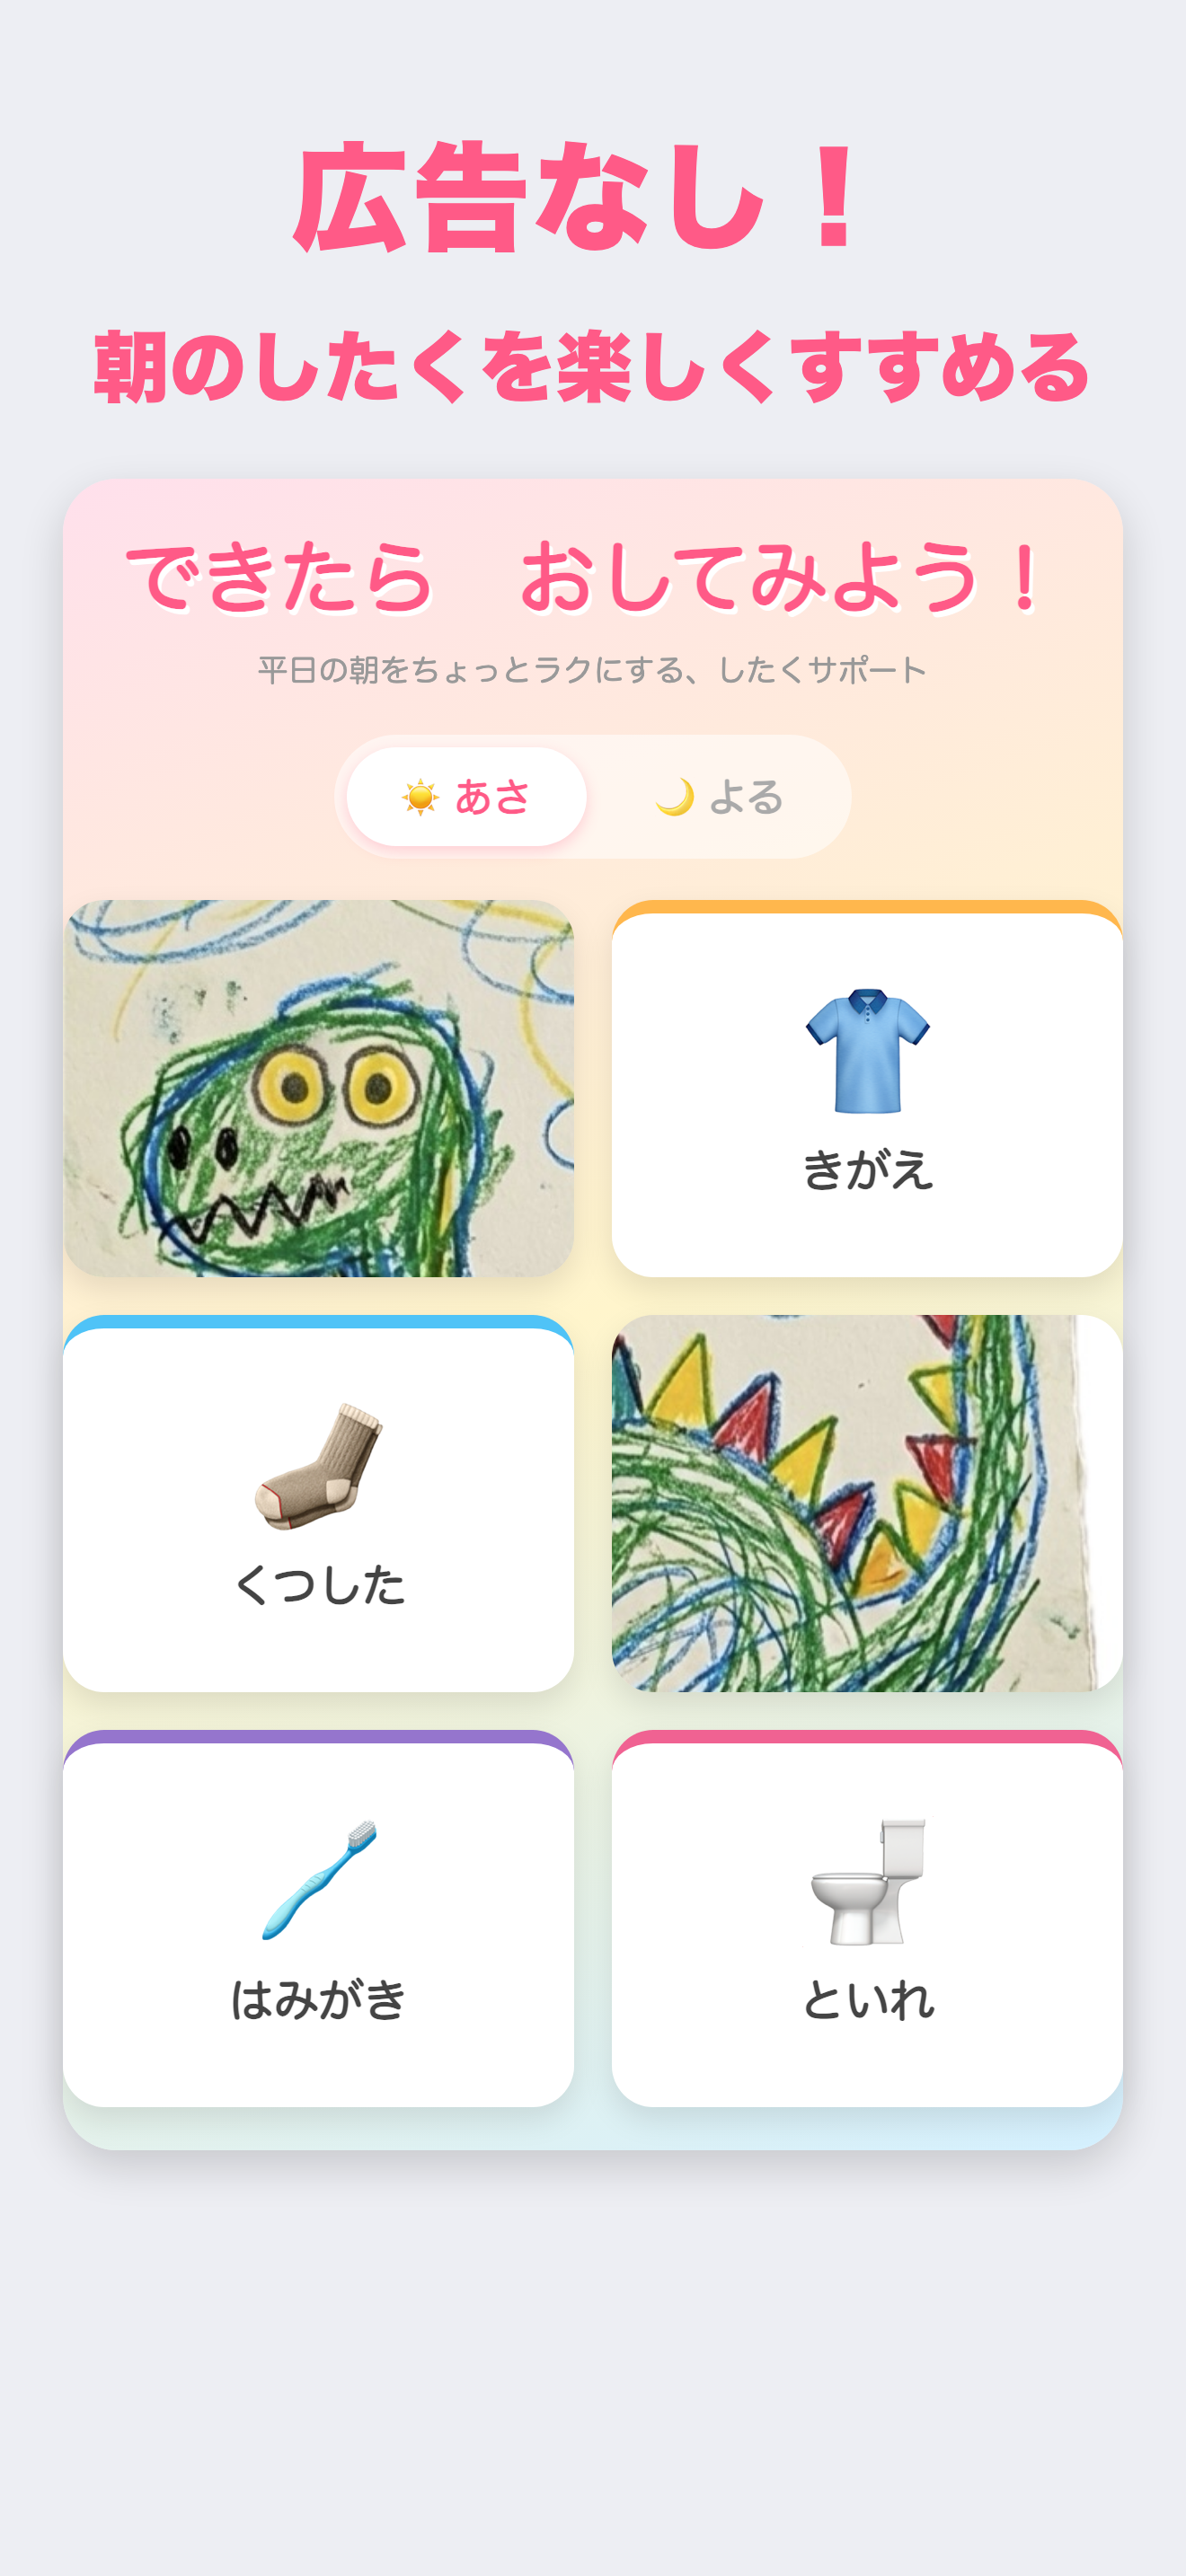
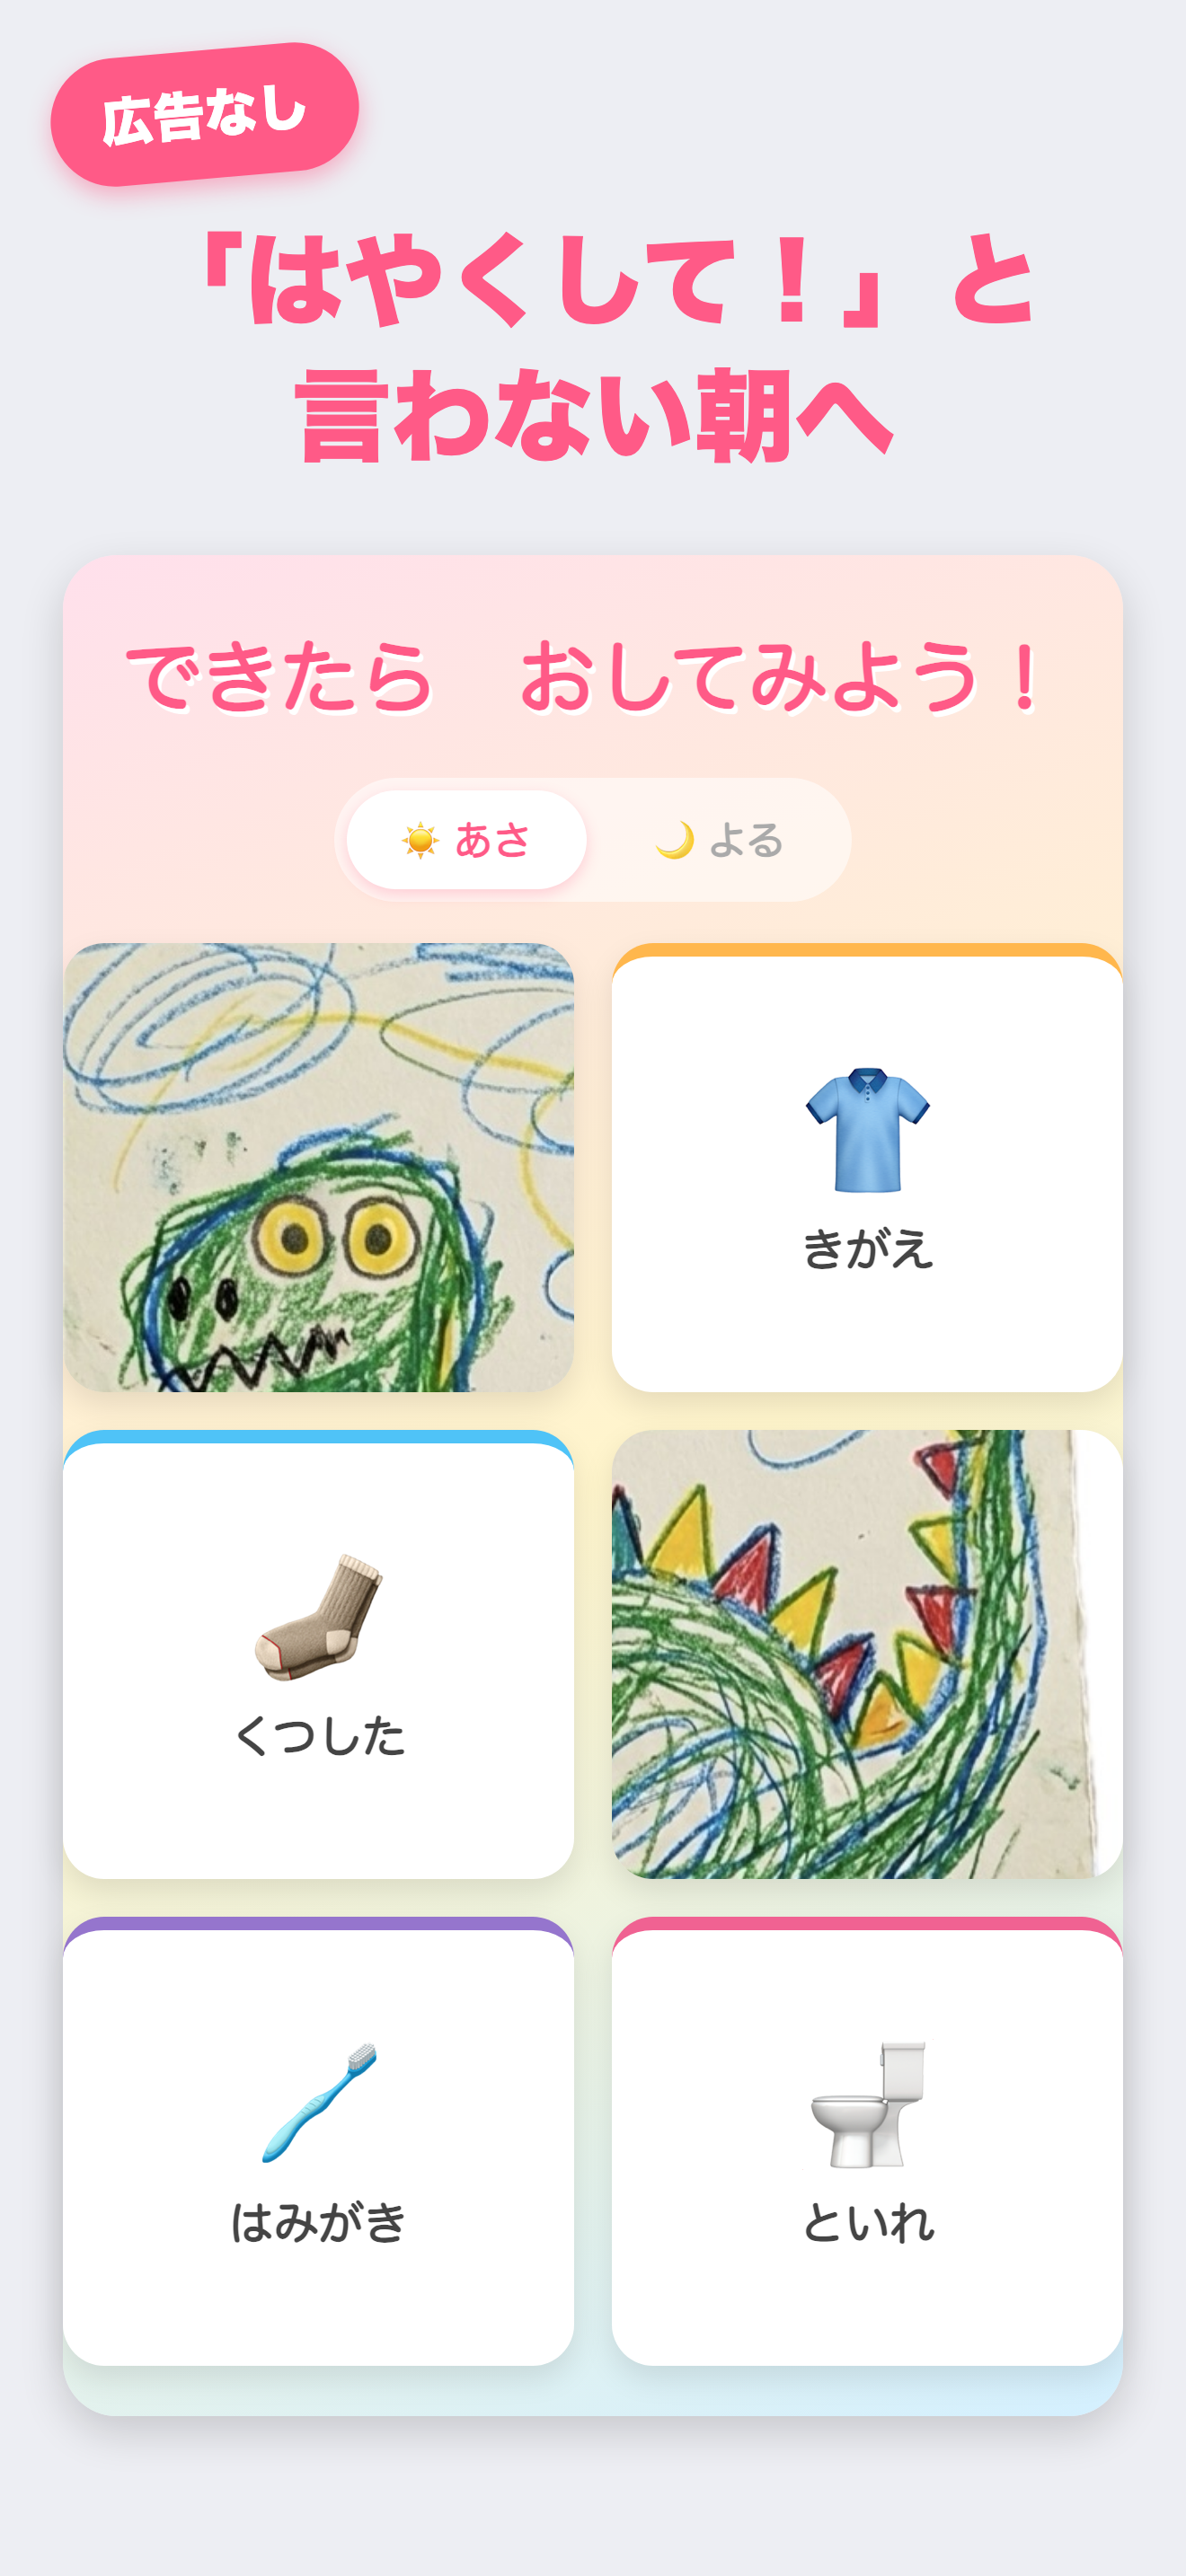
v1.2.1: アプリ名を「できタップ」に変更（本体・公開ページ・スクショ・掲載情報）
- webapp: <title>変更、hero-sub（平日の朝を〜）削除、設定フッターに
  「できタップ」表示（Yusei Magicサブセット約2KBをbase64埋め込み）
- iOS: MARKETING_VERSION 1.2.1 / build 6 / CFBundleDisplayName できタップ
- 公開ページ（landing/privacy/terms/support）: 名称をできタップ／DekiTapに
  統一、法務2ページは最終更新日を2026-07-04に更新
- スクショ1枚目: 「はやくして！」と言わない朝へ＋「広告なし」左上バッジ
- 掲載情報: App名「イヤイヤ期の朝したくが進む できタップ」、サブタイトル
  「朝の身支度が習慣に」、キーワード96字案（保育園・幼稚園を追加）

diff --git a/webapp/index.html b/webapp/index.html
@@ -3,7 +3,7 @@
 <head>
   <meta charset="UTF-8">
   <meta name="viewport" content="width=device-width, initial-scale=1.0, viewport-fit=cover">
-  <title>できた！</title>
+  <title>できタップ</title>
   <link rel="icon" type="image/svg+xml" href="icon.svg">
   <link rel="apple-touch-icon" href="icon.svg">
   <style>
@@ -175,15 +175,6 @@
       color: #c7a8ff;
       text-shadow: 2px 3px 0 rgba(0,0,0,0.4), 0 0 24px rgba(180,140,255,0.5);
     }
-
-    .hero-sub {
-      font-size: clamp(0.75rem, 2.5vw, 1rem);
-      color: #999;
-      margin-top: 4px;
-      transition: color 0.4s;
-    }
-
-    body.night .hero-sub { color: #7a7aaa; }
 
 /* ===== GRID ===== */
     .grid {
@@ -465,6 +456,22 @@
     .menu-tx small .free-em { color: #f5820a; font-weight: bold; }
     .menu-arrow { color: #ccc; font-size: 1.5rem; font-weight: bold; flex-shrink: 0; }
     .menu-row.danger b { color: #e0607f; }
+
+    /* app name in the settings footer — Yusei Magic のサブセット。
+       「できタップ」の5文字ぶんのグリフしか含まないので、他のテキストには使えない */
+    @font-face {
+      font-family: 'Yusei Magic Subset';
[1 lines of base64/hex data omitted]
+      font-weight: normal;
+      font-style: normal;
+    }
+    .settings-foot .app-name {
+      font-family: 'Yusei Magic Subset', 'Hiragino Maru Gothic ProN', sans-serif;
+      font-size: 1.15rem;
+      color: #ff5a87;
+      letter-spacing: 0.06em;
+      margin-bottom: 6px;
+    }
 
     /* contact footer in the settings hub */
     .settings-foot {
@@ -813,7 +820,6 @@
 <!-- ===== HERO ===== -->
 <div class="hero">
   <div class="hero-main">できたら　おしてみよう！</div>
-  <div class="hero-sub">平日の朝をちょっとラクにする、したくサポート</div>
 </div>
 
 <!-- ===== TOP BAR ===== -->
@@ -873,6 +879,7 @@
   </div>
 
   <div class="settings-foot">
+    <div class="app-name">できタップ</div>
     <a href="https://ohayo-app.com/privacy.html">プライバシーポリシー</a>　<a href="https://ohayo-app.com/terms.html">利用規約</a><br>
     お問い合わせ<br><a href="mailto:[email redacted]">[email redacted]</a>
   </div>

diff --git a/privacy.html b/privacy.html
@@ -3,7 +3,7 @@
 <head>
 <meta charset="UTF-8">
 <meta name="viewport" content="width=device-width, initial-scale=1.0">
-<title>プライバシーポリシー — できた！</title>
+<title>プライバシーポリシー — できタップ</title>
 <style>
   * { margin:0; padding:0; box-sizing:border-box; }
   body {
@@ -23,13 +23,13 @@
 </head>
 <body>
   <h1>プライバシーポリシー</h1>
-  <div class="updated">できた！ ／ 最終更新日: 2026年7月2日</div>
+  <div class="updated">できタップ（旧名称：できた！） ／ 最終更新日: 2026年7月4日</div>
 
   <div class="disclaimer">
     本ポリシーは、機能の追加や法令の変更などにより、予告なく改定されることがあります。重要な変更がある場合は本ページ上で告知し、改定後の最終更新日を記載します。本アプリおよび本サービスを継続してご利用いただく場合、改定後のポリシーに同意したものとみなします。
   </div>
 
-  <p>「できた！」（以下「本アプリ」）は、子ども向けの朝・夜のしたくトラッカーです。本アプリは利用者のプライバシーを最優先に考えて設計されています。</p>
+  <p>「できタップ」（以下「本アプリ」）は、子ども向けの朝・夜のしたくトラッカーです。本アプリは利用者のプライバシーを最優先に考えて設計されています。</p>
 
   <h2>収集する情報</h2>
   <p><strong>本アプリは、いかなる個人情報も収集・送信・共有しません。</strong></p>
@@ -68,13 +68,13 @@
 
   <div class="lang">
     <h1>Privacy Policy</h1>
-    <div class="updated">Dekita! / Last updated: July 2, 2026</div>
+    <div class="updated">DekiTap (formerly "Dekita!") / Last updated: July 4, 2026</div>
 
     <div class="disclaimer">
       This policy may be revised without prior notice due to new features, legal changes, or other reasons. We will announce material changes on this page and update the "Last updated" date. Your continued use of the app or service after a revision constitutes acceptance of the updated policy.
     </div>
 
-    <p>Dekita! (the "App") is a morning and bedtime routine tracker for children. The App is designed with privacy as the top priority.</p>
+    <p>DekiTap (the "App") is a morning and bedtime routine tracker for children. The App is designed with privacy as the top priority.</p>
 
     <h2>Information We Collect</h2>
     <p><strong>The App does not collect, transmit, or share any personal information.</strong></p>

diff --git a/support.html b/support.html
@@ -3,7 +3,7 @@
 <head>
 <meta charset="UTF-8">
 <meta name="viewport" content="width=device-width, initial-scale=1.0">
-<title>サポート — できた！</title>
+<title>サポート — できタップ</title>
 <style>
   * { margin:0; padding:0; box-sizing:border-box; }
   body {
@@ -23,9 +23,9 @@
 </head>
 <body>
   <h1>サポート</h1>
-  <div class="sub">できた！ — こどものあさ・よるのしたくトラッカー</div>
+  <div class="sub">できタップ — こどものあさ・よるのしたくトラッカー</div>
 
-  <p>「できた！」をご利用いただきありがとうございます。ご質問・ご要望・不具合のご報告は、下記の連絡先までお気軽にどうぞ。</p>
+  <p>「できタップ」をご利用いただきありがとうございます。ご質問・ご要望・不具合のご報告は、下記の連絡先までお気軽にどうぞ。</p>
 
   <div class="contact">
     📧 お問い合わせ：<a href="mailto:[email redacted]">[email redacted]</a><br>
@@ -50,8 +50,8 @@
 
   <div class="lang">
     <h1>Support</h1>
-    <div class="sub">Dekita! — a morning &amp; bedtime routine tracker for kids</div>
-    <p>Thank you for using Dekita! For questions, requests, or bug reports, please contact us:</p>
+    <div class="sub">DekiTap — a morning &amp; bedtime routine tracker for kids</div>
+    <p>Thank you for using DekiTap! For questions, requests, or bug reports, please contact us:</p>
     <div class="contact">
       📧 <a href="mailto:[email redacted]">[email redacted]</a><br>
       We usually reply within 2–3 business days.

diff --git a/terms.html b/terms.html
@@ -3,7 +3,7 @@
 <head>
 <meta charset="UTF-8">
 <meta name="viewport" content="width=device-width, initial-scale=1.0">
-<title>利用規約 — できた！</title>
+<title>利用規約 — できタップ</title>
 <style>
   * { margin:0; padding:0; box-sizing:border-box; }
   body {
@@ -23,13 +23,13 @@
 </head>
 <body>
   <h1>利用規約</h1>
-  <div class="updated">できた！ ／ 最終更新日: 2026年7月2日</div>
+  <div class="updated">できタップ（旧名称：できた！） ／ 最終更新日: 2026年7月4日</div>
 
   <div class="disclaimer">
     本規約は、機能の追加や法令の変更などにより、予告なく改定されることがあります。重要な変更がある場合は本ページ上で告知し、改定後の最終更新日を記載します。改定後に本アプリを継続してご利用いただく場合、改定後の規約に同意したものとみなします。
   </div>
 
-  <p>本利用規約（以下「本規約」）は、「できた！」（以下「本アプリ」）の提供者（以下「当方」）が提供する本アプリおよび関連サービスの利用条件を定めるものです。ご利用の前に本規約に同意いただく必要があります。</p>
+  <p>本利用規約（以下「本規約」）は、「できタップ」（以下「本アプリ」）の提供者（以下「当方」）が提供する本アプリおよび関連サービスの利用条件を定めるものです。ご利用の前に本規約に同意いただく必要があります。</p>
 
   <h2>第1条（適用）</h2>
   <p>本規約は、本アプリの利用に関する当方と利用者との間の一切の関係に適用されます。本アプリは主に保護者の管理のもとで、お子さまと一緒にご利用いただくことを想定しています。</p>
@@ -72,13 +72,13 @@
 
   <div class="lang">
     <h1>Terms of Use</h1>
-    <div class="updated">Dekita! / Last updated: July 2, 2026</div>
+    <div class="updated">DekiTap (formerly "Dekita!") / Last updated: July 4, 2026</div>
 
     <div class="disclaimer">
       These Terms may be revised without prior notice due to new features, legal changes, or other reasons. We will announce material changes on this page and update the "Last updated" date. Your continued use of the App after a revision constitutes acceptance of the revised Terms.
     </div>
 
-    <p>These Terms of Use (the "Terms") set out the conditions for using "Dekita!" (the "App") and related services provided by the App's provider ("we", "us"). You must agree to these Terms before using the App.</p>
+    <p>These Terms of Use (the "Terms") set out the conditions for using "DekiTap" (the "App") and related services provided by the App's provider ("we", "us"). You must agree to these Terms before using the App.</p>
 
     <h2>1. Application</h2>
     <p>These Terms apply to all relations between us and users regarding use of the App. The App is intended to be used primarily under the supervision of a parent or guardian, together with children.</p>

diff --git a/index.html b/index.html
@@ -3,7 +3,7 @@
 <head>
   <meta charset="UTF-8">
   <meta name="viewport" content="width=device-width, initial-scale=1.0">
-  <title>できた！ — 子どもが自分でしたくできる支度ボード</title>
+  <title>できタップ — 子どもが自分でしたくできる支度ボード</title>
   <meta name="description" content="タップするだけで朝と夜のしたくが「できた！」に。子どもが自分から動きたくなる、シンプルでかわいい支度ボードアプリ。広告・データ収集なし。">
   <link rel="icon" type="image/svg+xml" href="icon.svg">
   <link rel="apple-touch-icon" href="icon.svg">
@@ -141,8 +141,8 @@
 </head>
 <body>
 
-  <img class="app-icon" src="icon.svg" alt="できた！ アプリアイコン">
-  <h1>できた！</h1>
+  <img class="app-icon" src="icon.svg" alt="できタップ アプリアイコン">
+  <h1>できタップ</h1>
   <p class="tagline">タップするだけで、朝と夜のしたくが「できた！」に。<br>子どもが自分から動きたくなる支度ボード。</p>
 
   <a class="store-btn" href="https://apps.apple.com/jp/app/id6782828989">App Store でダウンロード</a>

diff --git a/marketing/generate-screenshots.py b/marketing/generate-screenshots.py
@@ -30,16 +30,20 @@ body.night .batt {{ border-color:#fff; }} body.night .batt::after {{ background:
   font-size:70px; font-weight:800; color:#ff5a87; text-align:center; margin:46px 0 34px; white-space:nowrap; }}
 .subcap {{ font-size:38px; color:#b9728a; text-align:center; margin-bottom:38px; }}
 body.night .caption {{ color:#c7a8ff; }} body.night .subcap {{ color:#9a8fce; }}
-/* ss-1 headline: no ads (pink, bold, angular gothic, no shadow) */
-.adfree {{ font-family:'Hiragino Sans','Hiragino Kaku Gothic ProN','BIZ UDPGothic',sans-serif;
-  font-size:132px; font-weight:800; color:#ff5a87; text-align:center;
-  white-space:nowrap; margin:24px 0 -20px; letter-spacing:.02em; }}
+/* ss-1: "no ads" badge at the top-left of the canvas, above the caption */
+.adfree-badge {{ position:absolute; top:56px; left:56px; z-index:2;
+  font-family:'Hiragino Sans','Hiragino Kaku Gothic ProN','BIZ UDPGothic',sans-serif;
+  font-size:58px; font-weight:800; color:#fff; background:#ff5a87;
+  padding:28px 56px; border-radius:80px; white-space:nowrap;
+  box-shadow:0 10px 26px rgba(255,90,135,.45); transform:rotate(-5deg); }}
 /* ss-1: frame the app screenshot so it reads separately from the caption/bg */
 body.framed {{ background:#edeef3; }}
-.appshot {{ width:100%; margin-top:26px; padding:44px 0 48px;
+.appshot {{ position:relative; width:100%; margin-top:40px; padding:70px 0 56px;
   background:linear-gradient(160deg,#ffe0ec 0%,#fff5cc 50%,#d4f0ff 100%);
   border-radius:60px; box-shadow:0 18px 48px rgba(0,0,0,.16);
   display:flex; flex-direction:column; align-items:center; }}
+/* ss-1 only: slightly taller cards so the frame fills the canvas */
+.appshot .card {{ height:500px; }}
 /* hero */
 .hero-main {{ font-size:88px; font-weight:bold; color:#ff5a87; text-shadow:4px 6px 0 #fff; white-space:nowrap; }}
 body.night .hero-main {{ color:#c7a8ff; text-shadow:3px 4px 0 rgba(0,0,0,.4); }}
@@ -200,8 +204,8 @@ def dino_mosaic(flipped, uri=_DINO_URI, nw=DINO_W, nh=DINO_H, tasks=_ASA_TASKS):
     """One picture covering the whole grid; only the flipped cards show their
     window into it, the rest stay as ordinary task cards (アタック25 mid-reveal).
     Mirrors the app's applyRewardSizing(): cover the grid, then offset per cell."""
-    cols, rows = 2, 3            # iPhone mock grid (see BASE .grid)
-    cardW, cardH, gap = 569, 420, 42
+    cols, rows = 2, 3            # iPhone mock grid (see BASE .grid; ss-1 cards are 470px tall)
+    cardW, cardH, gap = 569, 500, 42
     GW, GH = cols * cardW + (cols - 1) * gap, rows * cardH + (rows - 1) * gap
     cover  = max(GW / nw, GH / nh)
     iw, ih = nw * cover, nh * cover
@@ -278,15 +282,15 @@ celebration = STATUS.format(time="7:12") + """
 </div>
 """
 
-# ---------- CARD BACK IMAGE (v1.1) — lead screenshot ----------
+# ---------- CARD BACK IMAGE — lead screenshot (v1.2.1) ----------
 # One picture (a real child's crayon drawing) spans all six cards; flipping
 # each completed card reveals its slice, アタック25-style.
+# Headline is the emotional hook; "no ads" moved to a corner badge.
 cardback = STATUS.format(time="7:08") + """
-<div class="adfree">広告なし！</div>
-<div class="caption">朝のしたくを楽しくすすめる</div>
+<div class="adfree-badge">広告なし</div>
+<div class="caption" style="font-size:112px; line-height:1.35; margin:140px 0 40px">「はやくして！」と<br>言わない朝へ</div>
 <div class="appshot">
 <div class="hero-main">できたら　おしてみよう！</div>
-<div class="hero-sub">平日の朝をちょっとラクにする、したくサポート</div>
 <div class="tabs"><div class="tab active">☀️ あさ</div><div class="tab">🌙 よる</div></div>
 """ + dino_mosaic({0, 3}) + """
 </div>

diff --git a/BACKLOG.md b/BACKLOG.md
@@ -1,4 +1,4 @@
-# できた！ バックログ
+# できタップ バックログ
 
 優先度と依存関係を整理したもの。上から着手候補順。
 
@@ -20,6 +20,21 @@
   - 「クリア画像」：ぜんぶできたときのおいわい画面に1枚
   - ドラッグで位置・スライダーで大きさ調整（cover基準でgap無し）、けすボタンで削除。エディタはグリッド全体＋切れ目線でWYSIWYG
 - せってい画面をハブ＋サブページに分割（カードのへんしゅう／カードのうら／クリア画像）
+
+---
+
+## 🚧 v1.2.1（作業中 / 2026-07）— 名称変更＋ストア掲載改善
+アプリ名を「できた！」→「**できタップ**」に変更（検索での埋没・名称重複回避）。コード名（Bundle ID・ドメイン等）は変えない。
+
+- [x] アプリ内の名称変更（`webapp/index.html` の `<title>`、iOS `CFBundleDisplayName`）
+- [x] メイン画面のキャプション「平日の朝をちょっとラクにする〜」を削除
+- [x] 設定画面フッターに「できタップ」表示（Yusei Magic をサブセット埋め込み・約2KB）
+- [x] スクショ1枚目の再構成（「はやくして！」と言わない朝へ＋「広告なし」隅バッジ）
+- [ ] App名・サブタイトル・キーワードのASC更新（バージョン単位＝v1.2.1提出時に反映）
+  - App名：`イヤイヤ期の朝したくが進む できタップ`（19字・決定 2026-07-04。ASCで重複可否を要確認）
+  - サブタイトル：`朝の身支度が習慣に`　／　キーワード：下記「検索キーワード修正」参照
+- [x] 公開ページ（ランディング・privacy・terms・support）とドキュメントの名称統一
+- [ ] ビルド6アーカイブ→アップロード→審査提出
 
 ---
 
@@ -62,9 +77,10 @@
 ## 🔵 グロース・運用
 公開後の継続改善・ユーザーとの接点づくり。
 
-- [ ] **App Storeの検索キーワード修正**（ASC → App情報 → キーワード欄を次に更新）
-  - `おしたく,身支度,朝の準備,習慣,ルーティン,イヤイヤ期,絵カード,視覚支援,療育,発達支援,スケジュール,子育て,幼児,子供,2歳,3歳,トイトレ,着替え,歯磨き,ごほうび,やることリスト`
-  - 95文字（上限100字以内に収まる・コンマ含む）。キーワードはバージョン単位のメタデータのため、**次回バージョン（v1.3）提出時に反映**
+- [ ] **App Storeの検索キーワード修正**（ASC → App情報 → キーワード欄を次に更新。**v1.2.1提出時に反映**）
+  - `おしたく,朝の準備,ルーティン,イヤイヤ期,絵カード,視覚支援,療育,発達支援,スケジュール,子育て,幼児,子供,2歳,3歳,トイトレ,着替え,歯磨き,ごほうび,やることリスト,保育園,幼稚園`
+  - 96文字（上限100字・コンマ含む）。「保育園」「幼稚園」を追加した分、「身支度」「習慣」を削除
+    （サブタイトル候補「朝の身支度が習慣に」に両語が含まれ、App名・サブタイトルの語は検索インデックス済みのため重複させない）
 - [ ] **評価・レビュー依頼**（`SKStoreReviewController`。達成回数など好機に控えめに表示）
 - [ ] **「ご意見・ご感想お待ちしています！」メッセージ**（設定 or クリア後などに導線）
 - [ ] **問い合わせページ作成**（現状はメールのみ → `ohayo-app.com` に問い合わせページ／案内 or フォーム）

diff --git a/CLAUDE.md b/CLAUDE.md
@@ -1,7 +1,7 @@
-# できた！
+# できタップ
 
 子ども向けの朝・夜したくトラッカー（iOSアプリ）。
-（アプリ名は「できた！」。ドメインは `ohayo-app.com`、Bundle ID は `app.ohayo.ohayo` のまま）
+（アプリ名は「できタップ」。v1.2.1で「できた！」から改名。ドメインは `ohayo-app.com`、Bundle ID は `app.ohayo.ohayo` のまま）
 
 ## 構成
 - **アプリ本体**: `webapp/index.html`（単一ファイルに HTML/CSS/JS をすべて埋め込み、外部依存なし）。iOSの WKWebView にバンドルされる（`ios/` の Xcode プロジェクトが参照）

diff --git a/README.md b/README.md
@@ -1,4 +1,4 @@
-# できた！
+# できタップ（旧名称：できた！）
 
 子ども向けのあさ・よるのしたくアプリ。カードをタップするとくるっとめくれて、ぜんぶできたらお祝い画面が出ます。
 

diff --git a/RELEASE_CHECKLIST.md b/RELEASE_CHECKLIST.md
@@ -55,7 +55,7 @@ iPhone と **iPad の両方**で確認する（審査は両方の実機で行わ
 - [ ] **「フォトライブラリ」**から設定できる
 - [ ] **「写真を撮る」**：初回はカメラ許可ダイアログが出る → 許可 → 撮影 → 反映される（**クラッシュしない**）
 - [ ] **「ファイルを選択」**から設定できる
-- [ ] カメラを**拒否**した場合も落ちない（以降は 設定→できた！→カメラ でON可能）
+- [ ] カメラを**拒否**した場合も落ちない（以降は 設定→できタップ→カメラ でON可能）
 - [ ] ドラッグ・ズーム調整 → セーブ → メイン画面に反映
 
 ### 課金（.storekit ローカル or Sandbox）